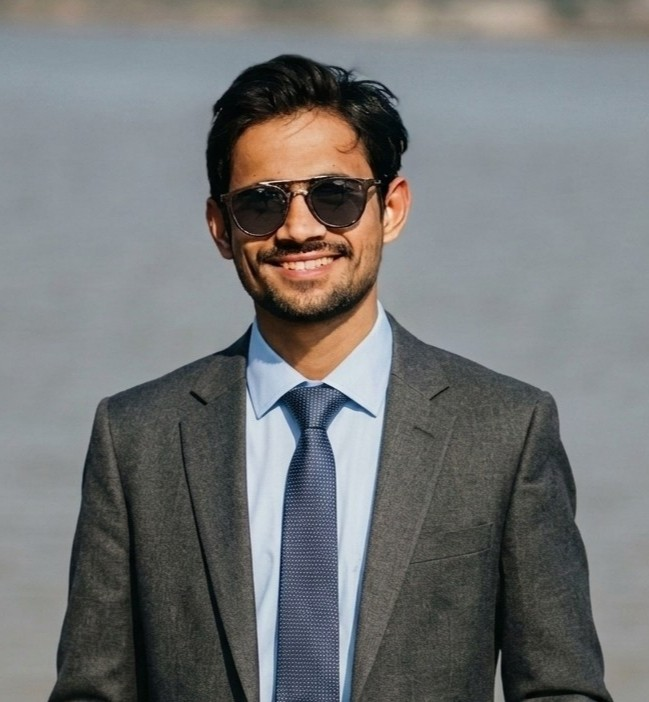
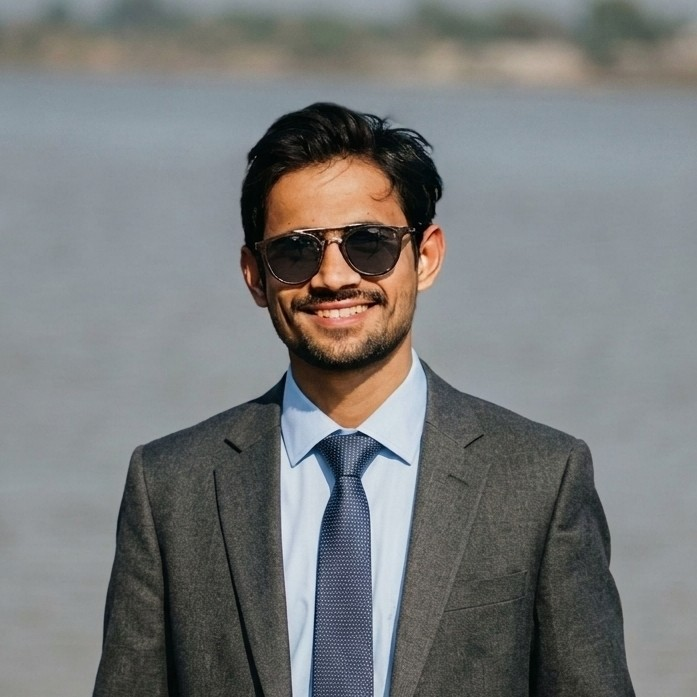
added resturant website link

diff --git a/src/pages/Portfolio.jsx b/src/pages/Portfolio.jsx
@@ -4,7 +4,7 @@ function Portfolio() {
   const projects = [
     {
       badge: "Gym & Fitness",
-      title: "IronPulse Fitness Hub",
+      title: "The Larkana Gym",
       image: "https://images.unsplash.com/photo-1534438327276-14e5300c3a48?auto=format&fit=crop&q=80&w=1000", // Replace with your screenshot
       problem: "The gym relied on chaotic Instagram DMs for class bookings, losing track of leads and frustrating potential members.",
       solution: "Built a high-performance web platform complete with prominent class schedules, mobile-optimized registration, and direct payment pathways.",
@@ -14,13 +14,13 @@ function Portfolio() {
     },
     {
       badge: "Restaurant & Dining",
-      title: "The Olive Bistro",
+      title: "The Larkana Bistro",
       image: "https://images.unsplash.com/photo-1517248135467-4c7edcad34c4?auto=format&fit=crop&q=80&w=1000", // Replace with your screenshot
       problem: "An outdated PDF menu forced users to download files onto their phones, hiding reservation options and driving customers away.",
       solution: "Developed a modern, lightning-fast digital interactive menu layout paired with a simple automated table reservation flow.",
       result: "Optimized to dramatically reduce bounce rates and maximize weekend dinner table bookings.",
       demoColor: "#10B981",
-      link: "#"
+      link: "https://junaidahmedx404.github.io/larkana-bistro-showcase/"
     },
     {
       badge: "Real Estate Agency",